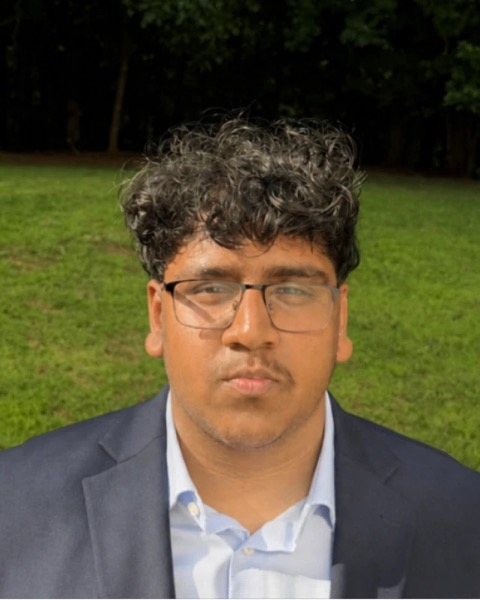
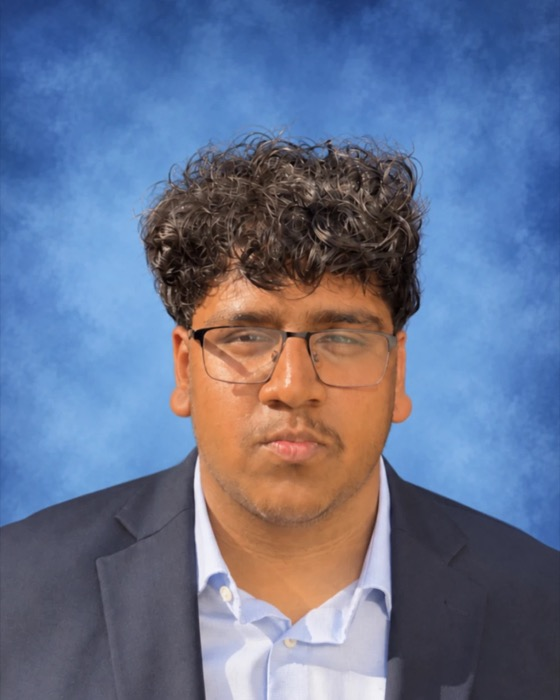
Update co-founder photos

diff --git a/billboards.html b/billboards.html
@@ -16,7 +16,7 @@
 <link rel="preconnect" href="https://fonts.googleapis.com">
 <link rel="preconnect" href="https://fonts.gstatic.com" crossorigin>
 <link href="https://fonts.googleapis.com/css2?family=EB+Garamond:ital,wght@0,400..800;1,400..800&family=Overpass:wght@400..900&display=swap" rel="stylesheet">
-<link rel="stylesheet" href="assets/styles.css?v=15">
+<link rel="stylesheet" href="assets/styles.css?v=16">
 <script>document.documentElement.classList.add('js')</script>
 </head>
 <body>
@@ -148,9 +148,9 @@
   <div class="field" data-photo-field><label for="pl-photo">Photo (optional, you'll attach it to the email next)</label><input id="pl-photo" name="photo" type="file" accept="image/*"></div>
 </template>
 
-<script src="assets/data.base.js?v=15"></script>
-<script src="assets/data.content.js?v=15"></script>
-<script src="assets/app.js?v=15"></script>
-<script src="assets/billboards.js?v=15"></script>
+<script src="assets/data.base.js?v=16"></script>
+<script src="assets/data.content.js?v=16"></script>
+<script src="assets/app.js?v=16"></script>
+<script src="assets/billboards.js?v=16"></script>
 </body>
 </html>

diff --git a/topic.html b/topic.html
@@ -13,7 +13,7 @@
 <link rel="preconnect" href="https://fonts.googleapis.com">
 <link rel="preconnect" href="https://fonts.gstatic.com" crossorigin>
 <link href="https://fonts.googleapis.com/css2?family=EB+Garamond:ital,wght@0,400..800;1,400..800&family=Overpass:wght@400..900&display=swap" rel="stylesheet">
-<link rel="stylesheet" href="assets/styles.css?v=15">
+<link rel="stylesheet" href="assets/styles.css?v=16">
 <script>document.documentElement.classList.add('js')</script>
 </head>
 <body>
@@ -98,9 +98,9 @@
   </div>
 </footer>
 
-<script src="assets/data.base.js?v=15"></script>
-<script src="assets/data.content.js?v=15"></script>
-<script src="assets/app.js?v=15"></script>
-<script src="assets/topic.js?v=15"></script>
+<script src="assets/data.base.js?v=16"></script>
+<script src="assets/data.content.js?v=16"></script>
+<script src="assets/app.js?v=16"></script>
+<script src="assets/topic.js?v=16"></script>
 </body>
 </html>

diff --git a/index.html b/index.html
@@ -15,7 +15,7 @@
 <link rel="preconnect" href="https://fonts.googleapis.com">
 <link rel="preconnect" href="https://fonts.gstatic.com" crossorigin>
 <link href="https://fonts.googleapis.com/css2?family=EB+Garamond:ital,wght@0,400..800;1,400..800&family=Overpass:wght@400..900&display=swap" rel="stylesheet">
-<link rel="stylesheet" href="assets/styles.css?v=15">
+<link rel="stylesheet" href="assets/styles.css?v=16">
 <script>document.documentElement.classList.add('js')</script>
 </head>
 <body>
@@ -252,9 +252,9 @@
 </footer>
 
 
-<script src="assets/data.base.js?v=15"></script>
-<script src="assets/data.content.js?v=15"></script>
-<script src="assets/app.js?v=15"></script>
-<script src="assets/home.js?v=15"></script>
+<script src="assets/data.base.js?v=16"></script>
+<script src="assets/data.content.js?v=16"></script>
+<script src="assets/app.js?v=16"></script>
+<script src="assets/home.js?v=16"></script>
 </body>
 </html>

diff --git a/assets/data.base.js b/assets/data.base.js
@@ -56,8 +56,8 @@ window.SITE = {
 
   // Team. Photos live in assets/team/.
   team: [
-    { name: "Ramcharan Nagisetty", role: "Co-founder", photo: "assets/team/ramcharan.jpg" },
-    { name: "Armaan Punjani", role: "Co-founder", photo: "assets/team/armaan.jpg" },
+    { name: "Ramcharan Nagisetty", role: "Co-founder", photo: "assets/team/ramcharan.jpg?v=2" },
+    { name: "Armaan Punjani", role: "Co-founder", photo: "assets/team/armaan.jpg?v=2" },
   ],
 
 };
